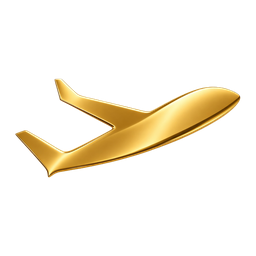
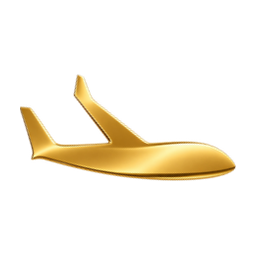
Phase 5 visual refresh: hero baggage tag, timeline benefits, scattered planes
Scoped entirely to the public landing page presentation layer; no backend,
database, admin, auth, checkout, or payment code touched.

- Hero: add a baggage-tag visual (23 -> 27 kg member range, barcode, partner
  line) alongside the existing copy on desktop. Left off mobile deliberately
  to avoid re-pushing the CTA/chip row below the fold (see the "Trim hero
  vertical spacing" commit history).
- AnimatedSky: replace the repeating background-image plane pattern with
  individually-positioned lucide Plane icons that drift and rotate in place.
  The old tiled webp read as a visible grid/seam at larger sizes; scattered
  icons read as atmosphere instead. Rotation goes through a --r custom
  property (not a literal transform) since the drift keyframes also animate
  transform and would otherwise silently discard any other rotation value.
  Drops the now-unused planes-gold.webp / planes-white.webp assets.
- Benefits: convert the 4-card grid into a connected "Gate 01-04" timeline
  to read as a designed sequence rather than a slide deck.
- Footer: add a "Follow Us" column linking to the brand's Instagram (no
  Facebook account exists).
- Favicon (public/plane.png): re-level the plane artwork from its diagonal
  ascending pose to horizontal.

All existing content (SITE object), routes, and interactive components are
reused as-is: JoinTrigger/JoinDialog checkout flow, FaqAccordion, Wordmark,
/legal/terms + /legal/privacy pages. Verified via `next build`, `tsc
[…]

Changed region(s): [[0.0625, 0.2812, 0.9375, 0.7188]]

diff --git a/src/app/(site)/page.tsx b/src/app/(site)/page.tsx
@@ -14,6 +14,44 @@ const ORANGE_PILL =
 
 const BENEFIT_ICONS = [ShieldCheck, Ban, RefreshCcwDot, MailCheck];
 
+function BaggageTag() {
+  return (
+    <div className="relative mx-auto w-full max-w-[280px] rotate-[-3deg] rounded-2xl border border-brand-indigo/10 bg-white p-6 pt-8 shadow-pop transition-transform duration-300 ease-out hover:rotate-0 hover:scale-[1.02]">
+      <span
+        aria-hidden
+        className="absolute left-1/2 top-3 h-3 w-3 -translate-x-1/2 rounded-full border-2 border-brand-purple/50"
+      />
+      <p className="text-center text-[11px] font-semibold uppercase tracking-[0.14em] text-ink-subtle">
+        Belsalameh · Baggage Tag
+      </p>
+      <div className="mt-3 flex items-baseline justify-center gap-2">
+        <span className="font-display text-4xl font-bold text-brand-indigo">23</span>
+        <span className="text-xl text-ink-subtle" aria-hidden>
+          →
+        </span>
+        <span className="font-display text-4xl font-bold text-brand-orange">27</span>
+        <span className="text-sm font-semibold text-ink-subtle">KG</span>
+      </div>
+      <p className="mt-1 text-center text-xs font-semibold uppercase tracking-wide text-ink-subtle">
+        Member Range · Protected Rate
+      </p>
+      <div className="mt-5 border-t border-dashed border-brand-indigo/25" />
+      <div
+        aria-hidden
+        className="mt-5 h-9 w-full"
+        style={{
+          backgroundImage:
+            "repeating-linear-gradient(90deg, rgb(var(--primary)) 0 3px, transparent 3px 6px, rgb(var(--primary)) 6px 7px, transparent 7px 13px, rgb(var(--primary)) 13px 17px, transparent 17px 21px, rgb(var(--primary)) 21px 22px, transparent 22px 27px)",
+        }}
+      />
+      <p className="mt-4 flex items-center justify-center gap-1.5 text-xs font-semibold text-brand-indigo">
+        <Plane className="h-3.5 w-3.5 text-brand-orange" aria-hidden />
+        Partner: {PARTNER}
+      </p>
+    </div>
+  );
+}
+
 function WeightBand({
   range,
   title,
@@ -63,7 +101,7 @@ export default function LandingPage() {
         />
         <AnimatedSky variant="gold" />
 
-        <div className="relative z-10 mx-auto max-w-6xl px-4 pb-16 pt-16 sm:px-6 sm:pb-20 sm:pt-20">
+        <div className="relative z-10 mx-auto grid max-w-6xl items-center gap-10 px-4 pb-16 pt-16 sm:px-6 sm:pb-20 sm:pt-20 lg:grid-cols-[1.15fr_0.85fr] lg:gap-8">
           <div className="max-w-3xl">
             <p className="inline-flex items-center gap-1.5 rounded-full bg-white/70 px-3 py-1 text-xs font-semibold uppercase tracking-[0.16em] text-brand-purple">
               <Plane className="h-3.5 w-3.5" aria-hidden />
@@ -97,6 +135,10 @@ export default function LandingPage() {
                 </span>
               ))}
             </div>
+          </div>
+
+          <div aria-hidden className="hidden lg:block">
+            <BaggageTag />
           </div>
         </div>
 
@@ -207,25 +249,31 @@ export default function LandingPage() {
       </section>
 
       {/* ── Benefits ────────────────────────────────────────── */}
-      <section className="mx-auto max-w-6xl px-4 py-12 sm:px-6 sm:py-16">
+      <section className="mx-auto max-w-3xl px-4 py-12 sm:px-6 sm:py-16">
         <h2 className="font-display text-3xl font-bold text-brand-indigo">{SITE.benefits.heading}</h2>
-        <div className="mt-8 grid gap-5 sm:grid-cols-2 lg:grid-cols-4">
+        <ol className="mt-10">
           {SITE.benefits.items.map((it, i) => {
             const Icon = BENEFIT_ICONS[i] ?? ShieldCheck;
+            const isLast = i === SITE.benefits.items.length - 1;
             return (
-              <div
-                key={it.title}
-                className="rounded-2xl border border-brand-sand/70 bg-white p-6 shadow-sm transition hover:-translate-y-0.5 hover:shadow-md"
-              >
-                <span className="grid h-11 w-11 place-items-center rounded-full bg-brand-orange/15 text-brand-orange">
-                  <Icon className="h-5 w-5" aria-hidden />
-                </span>
-                <h3 className="mt-4 font-display text-lg font-semibold text-brand-indigo">{it.title}</h3>
-                <p className="mt-2 text-base leading-relaxed text-ink-muted">{it.body}</p>
-              </div>
+              <li key={it.title} className="flex gap-5">
+                <div className="flex flex-col items-center">
+                  <span className="grid h-11 w-11 shrink-0 place-items-center rounded-full bg-brand-orange/15 text-brand-orange">
+                    <Icon className="h-5 w-5" aria-hidden />
+                  </span>
+                  {!isLast && <span aria-hidden className="mt-1 w-px flex-1 bg-brand-purple/25" />}
+                </div>
+                <div className={isLast ? "pb-1" : "pb-9"}>
+                  <p className="text-xs font-semibold uppercase tracking-[0.14em] text-brand-orange">
+                    Gate {String(i + 1).padStart(2, "0")}
+                  </p>
+                  <h3 className="mt-1 font-display text-lg font-semibold text-brand-indigo">{it.title}</h3>
+                  <p className="mt-1.5 text-base leading-relaxed text-ink-muted">{it.body}</p>
+                </div>
+              </li>
             );
           })}
-        </div>
+        </ol>
       </section>
 
       {/* ── How it works ───────────────────────────────────── */}

diff --git a/src/components/site/animated-sky.tsx b/src/components/site/animated-sky.tsx
@@ -1,66 +1,84 @@
+import { Plane } from "lucide-react";
 import { cn } from "@/lib/utils";
 import type { CSSProperties } from "react";
 
 /**
- * Decorative animated background: soft clouds + two parallax layers of the
- * brand airplane pattern drifting sideways. Pure CSS (keyframe `bsl-drift`
- * in globals.css); each layer travels exactly one tile width so it loops
- * seamlessly, and it freezes under prefers-reduced-motion.
- *
- * Assets: /public/planes-{gold,white}.webp — the brand artwork, downscaled to
- * 640px and WebP-compressed (~33 KB total) since it only ever renders small and
- * faint. Put it inside a `relative overflow-hidden` parent.
+ * Decorative animated background: soft clouds + scattered airplane silhouettes
+ * drifting gently back and forth. Each plane is an individually-positioned
+ * icon (not a repeating image tile) so there are no visible seams/grid lines —
+ * a tiled `background-image` pattern was tried first and read as a grid.
+ * Rotation is passed via the `--r` custom property (not a literal `transform`)
+ * because the drift keyframes also animate `transform`, which would otherwise
+ * silently discard any other rotation value for the duration of the animation.
+ * Pure CSS (`bsl-plane-drift-x` / `-y` in globals.css); frozen automatically
+ * under prefers-reduced-motion (see the global rule in globals.css).
  */
 type Props = { variant?: "gold" | "white"; className?: string };
+
+interface Aircraft {
+  top: string;
+  left: string;
+  size: number;
+  duration: string;
+  delay: string;
+  axis: "x" | "y";
+  travel: number;
+  opacity: number;
+  rotate: number;
+}
 
 const CLOUDS =
   "radial-gradient(45% 60% at 18% 40%, rgba(255,255,255,0.55), transparent 70%)," +
   "radial-gradient(38% 55% at 52% 62%, rgba(255,255,255,0.42), transparent 72%)," +
   "radial-gradient(50% 55% at 84% 34%, rgba(255,255,255,0.5), transparent 72%)";
 
-function layer(style: CSSProperties): CSSProperties {
-  return { animation: "bsl-drift linear infinite", backgroundRepeat: "repeat-x", willChange: "background-position", ...style };
-}
+const FLEET: Aircraft[] = [
+  { top: "10%", left: "8%", size: 26, duration: "18s", delay: "0s", axis: "x", travel: 36, opacity: 1, rotate: 22 },
+  { top: "20%", left: "76%", size: 18, duration: "14s", delay: "-4s", axis: "x", travel: -30, opacity: 1, rotate: -12 },
+  { top: "34%", left: "40%", size: 32, duration: "22s", delay: "-9s", axis: "y", travel: 26, opacity: 1, rotate: 30 },
+  { top: "50%", left: "16%", size: 16, duration: "13s", delay: "-2s", axis: "x", travel: 24, opacity: 1, rotate: 6 },
+  { top: "58%", left: "88%", size: 22, duration: "19s", delay: "-11s", axis: "x", travel: -28, opacity: 1, rotate: -25 },
+  { top: "70%", left: "58%", size: 20, duration: "16s", delay: "-6s", axis: "y", travel: -22, opacity: 1, rotate: 15 },
+  { top: "82%", left: "24%", size: 28, duration: "21s", delay: "-15s", axis: "y", travel: 20, opacity: 1, rotate: -18 },
+  { top: "88%", left: "68%", size: 15, duration: "12s", delay: "-1s", axis: "x", travel: 26, opacity: 1, rotate: 28 },
+];
 
 export function AnimatedSky({ variant = "gold", className }: Props) {
-  const img = variant === "gold" ? "/planes-gold.webp" : "/planes-white.webp";
+  const color = variant === "gold" ? "rgb(var(--accent))" : "rgba(255,255,255,0.85)";
+  const baseOpacity = variant === "gold" ? 0.16 : 0.14;
 
   return (
     <div aria-hidden className={cn("pointer-events-none absolute inset-0 overflow-hidden", className)}>
-      {/* clouds — slowest, drifting left */}
       <div
         className="absolute inset-0 opacity-70"
-        style={layer({
+        style={{
           background: CLOUDS,
           backgroundSize: "1100px 70%",
           backgroundPosition: "0 28%",
           filter: "blur(10px)",
-          animationDuration: "120s",
-          ["--bsl-drift" as string]: "-1100px",
-        } as CSSProperties)}
+        }}
       />
-      {/* far planes — small, very faint, drifting right */}
-      <div
-        className="absolute inset-0 opacity-[0.05]"
-        style={layer({
-          backgroundImage: `url(${img})`,
-          backgroundSize: "300px auto",
-          backgroundPosition: "0 32%",
-          animationDuration: "43s",
-          ["--bsl-drift" as string]: "300px",
-        } as CSSProperties)}
-      />
-      {/* near planes — slightly larger, still subtle, drifting right */}
-      <div
-        className="absolute inset-0 opacity-[0.09]"
-        style={layer({
-          backgroundImage: `url(${img})`,
-          backgroundSize: "440px auto",
-          backgroundPosition: "0 74%",
-          animationDuration: "34s",
-          ["--bsl-drift" as string]: "440px",
-        } as CSSProperties)}
-      />
+      {FLEET.map((plane, i) => (
+        <Plane
+          key={i}
+          aria-hidden
+          className="absolute"
+          style={
+            {
+              top: plane.top,
+              left: plane.left,
+              width: plane.size,
+              height: plane.size,
+              color,
+              opacity: plane.opacity * baseOpacity,
+              animation: `bsl-plane-drift-${plane.axis} ${plane.duration} ease-in-out infinite alternate`,
+              animationDelay: plane.delay,
+              "--r": `${plane.rotate}deg`,
+              "--t": `${plane.travel}px`,
+            } as CSSProperties
+          }
+        />
+      ))}
     </div>
   );
 }

diff --git a/src/components/site/site-footer.tsx b/src/components/site/site-footer.tsx
@@ -1,6 +1,9 @@
 import Link from "next/link";
+import { Instagram } from "lucide-react";
 import { Wordmark } from "@/components/wordmark";
 import { SITE, CONTACT_EMAIL } from "@/lib/site-content";
+
+const INSTAGRAM_URL = "https://www.instagram.com/blsalameh/";
 
 const EXPLORE = [
   { label: "How it works", href: "/#how-it-works" },
@@ -11,7 +14,7 @@ const EXPLORE = [
 export function SiteFooter() {
   return (
     <footer className="bg-brand-indigo text-brand-cream/80">
-      <div className="mx-auto grid max-w-6xl gap-8 px-4 py-12 text-sm sm:grid-cols-2 sm:px-6 lg:grid-cols-4">
+      <div className="mx-auto grid max-w-6xl gap-8 px-4 py-12 text-sm sm:grid-cols-2 sm:px-6 lg:grid-cols-5">
         <div>
           <Wordmark tone="light" className="h-10 w-auto" />
           <p className="mt-3 font-display text-base text-brand-cream">{SITE.footer.tagline}</p>
@@ -50,6 +53,19 @@ export function SiteFooter() {
           <p className="font-medium text-white">Help</p>
           <a href={`mailto:${CONTACT_EMAIL}`} className="mt-2 block hover:text-white hover:underline">
             {CONTACT_EMAIL}
+          </a>
+        </div>
+
+        <div>
+          <p className="font-medium text-white">Follow Us</p>
+          <a
+            href={INSTAGRAM_URL}
+            target="_blank"
+            rel="noopener noreferrer"
+            className="mt-2 inline-flex items-center gap-1.5 hover:text-white hover:underline"
+          >
+            <Instagram className="h-4 w-4" aria-hidden />
+            Instagram
           </a>
         </div>
       </div>

diff --git a/src/app/globals.css b/src/app/globals.css
@@ -70,11 +70,24 @@
   }
 }
 
-/* Animated sky — decorative drifting airplane layers (AnimatedSky component).
-   Each layer travels exactly one tile width (--bsl-drift) so the loop is seamless.
-   Frozen automatically under the prefers-reduced-motion block above. */
-@keyframes bsl-drift {
+/* Animated sky — decorative scattered airplane icons (AnimatedSky component).
+   Each plane drifts back and forth on one axis and keeps its own rotation via
+   the --r custom property, since animating `transform` here would otherwise
+   overwrite a literal rotate() set inline. Frozen automatically under the
+   prefers-reduced-motion block above. */
+@keyframes bsl-plane-drift-x {
+  from {
+    transform: translateX(0) rotate(var(--r, 0deg));
+  }
   to {
-    background-position-x: var(--bsl-drift, 600px);
+    transform: translateX(var(--t, 30px)) rotate(var(--r, 0deg));
+  }
+}
+@keyframes bsl-plane-drift-y {
+  from {
+    transform: translateY(0) rotate(var(--r, 0deg));
+  }
+  to {
+    transform: translateY(var(--t, 30px)) rotate(var(--r, 0deg));
   }
 }
